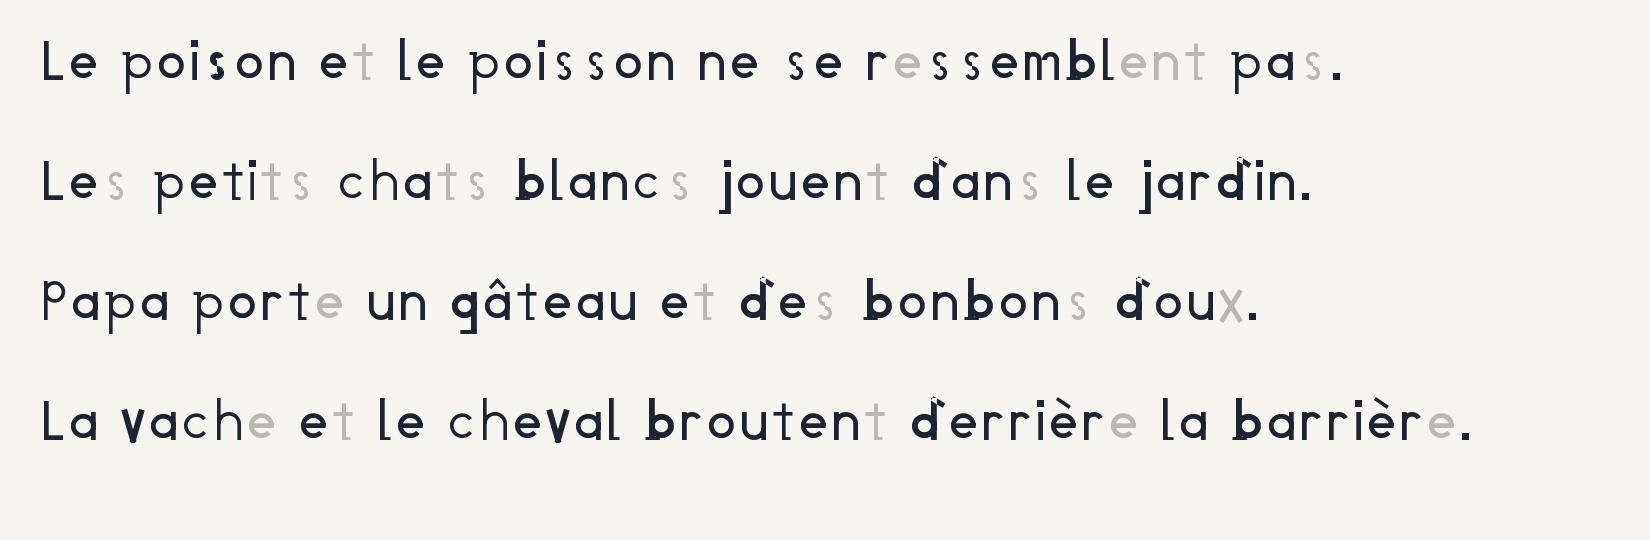
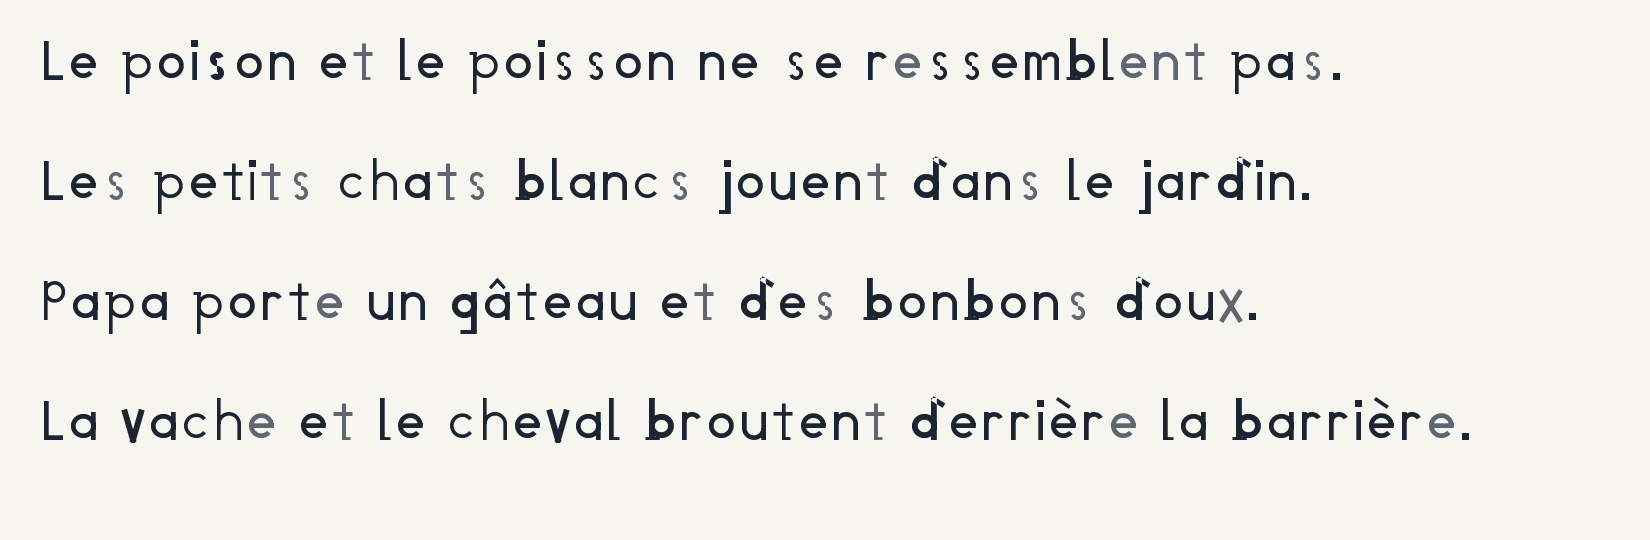
Police : couleurs littérature+daltonisme — muette gris FONCÉ lisible (BDA : pas de gris faible), Okabe-Ito (vermillon/bleu, violet), la couleur jamais seul canal
Retour terrain : le gris clair opacity .28 était dur à lire. Corrigé #5f6672 (≈5,4:1 sur
crème) — codage par luminosité, perçu par tous les daltonismes ; l'info voisée/sourde reste
portée d'abord par la graisse. Fond crème déjà conforme BDA (choix aveugle confirmé).
Overlays colorés : preuve manquante, non retenus. Sources dans LITTERATURE.md.

diff --git a/police/demo.html b/police/demo.html
@@ -27,13 +27,18 @@
   .note { color:var(--soft); font-size:13px; margin-top:2px; }
   .pair { display:inline-block; margin-right:34px; text-align:center; }
   .pair .lbl { font-size:12px; color:var(--soft); }
-  .mute { opacity:.28; }
-  .graph { text-decoration:underline; text-decoration-color:#3f7d5c; text-decoration-thickness:3px;
+  /* Muette : gris-bleu FONCÉ (contraste ≥4,5:1 sur crème — un gris clair est illisible, la BDA
+     déconseille les gris faibles). Codage par LUMINOSITÉ = perçu par tous les daltonismes. */
+  .mute { color:#5f6672; }
+  /* Graphèmes : violet (palette sans rouge/vert, daltonien-compatible) */
+  .graph { text-decoration:underline; text-decoration-color:#8b5a9e; text-decoration-thickness:3px;
            text-underline-offset:7px; }
   .cmp { display:grid; grid-template-columns:1fr 1fr; gap:18px; align-items:start; }
   .cmp > div { background:#fffdf8; border:1px solid #e2dccd; border-radius:8px; padding:14px 16px; }
   .cmp .who { font-size:12px; color:var(--soft); margin-bottom:6px; font-family:Georgia,serif; }
-  .voi { color:#7a3020; } .srd { color:#2b5a86; }
+  /* Renfort couleur Okabe-Ito assombri (vermillon/bleu, jamais rouge/vert) — l'information
+     est TOUJOURS portée d'abord par la graisse : la couleur seule ne code rien. */
+  .voi { color:#a34700; } .srd { color:#0072b2; }
 </style>
 </head>
 <body>

diff --git a/police/LITTERATURE.md b/police/LITTERATURE.md
@@ -50,6 +50,27 @@ l'**habillage à l'affichage** :
   `g2p_corrections.json` a APPRIS `ss→∅` ; contournement local documenté dans `build_son_layer.py`
   en attendant le correctif mesuré (held-out).
 
+## Couleur & daltonisme (ajout 2026-08-21, retour terrain : « le gris clair est dur à lire »)
+
+Ce que dit la littérature couleur×dyslexie :
+
+- **Fond crème / pastel, pas blanc pur** (éblouissement, distorsion au contraste extrême) et texte
+  foncé **pas noir pur** — recommandation BDA (Style Guide). Notre démo l'avait déjà en aveugle
+  (`#f7f5ef` / `#1c2431`). Les **gris faibles sont déconseillés** — le retour terrain concorde.
+- **Overlays/filtres colorés** : preuve d'efficacité **manquante** (position BDA elle-même
+  prudente) — ne pas investir là.
+- **Daltonisme** (~8 % des hommes) : jamais rouge/vert ; palette **Okabe-Ito** (vermillon/bleu/
+  violet) ; et surtout **la couleur ne doit jamais être le seul canal** — chez nous l'information
+  voisée/sourde est portée par la **graisse**, la couleur n'est qu'un renfort.
+
+Décisions appliquées (démo + aperçu) :
+
+| Élément | Avant | Après |
+|---|---|---|
+| Muette | `opacity .28` (illisible) | gris-bleu **foncé** `#5f6672` (contraste ≈ 5,4:1, lisible mais en retrait) — codage par **luminosité**, perçu par tous les types de daltonisme |
+| Paires voisée/sourde (renfort) | rouge sombre / bleu | Okabe-Ito assombri `#a34700` / `#0072b2` (≥ 4,5:1) |
+| Soulignés graphèmes | vert | violet `#8b5a9e` (plus de vert dans la page) |
+
 ## Sources
 
 - [Méta-analyse 2026 — polices dys sans effet fiable](https://link.springer.com/article/10.1007/s11881-026-00389-8) · [PubMed](https://pubmed.ncbi.nlm.nih.gov/42536336/)
@@ -58,3 +79,4 @@ l'**habillage à l'affichage** :
 - [Visible Speech (Bell, 1867)](https://en.wikipedia.org/wiki/Visible_Speech)
 - [Apprentissage graphème-phonème chez dyslexiques (Frontiers 2018)](https://www.frontiersin.org/journals/psychology/articles/10.3389/fpsyg.2018.01393/full)
 - [LireCouleur (Primàbord/Éduscol)](https://primabord.eduscol.education.fr/lirecouleur) · [LireCouleur — présentation ASH](https://ash.dsden02.ac-amiens.fr/290-lirecouleur.html) · [dysclick — LireCouleur](https://dysclick.fr/outils/lirecouleur/)
+- Couleur : [BDA Style Guide 2023 (PDF)](https://cdn.bdadyslexia.org.uk/uploads/documents/Advice/style-guide/BDA-Style-Guide-2023.pdf) · [Dyslexia Scotland — contraste](https://dyslexiascotland.org.uk/contrasting-advice-what-colours-are-best-for-accessibility/) · [Cardiff Univ. — couleur inclusive](https://blogs.cardiff.ac.uk/LTAcademy/not-just-pretty-colours-using-colour-and-contrast-inclusively/) · [palette Okabe-Ito](https://scifig.ai/blog/okabe-ito-color-palette-hex-codes)
